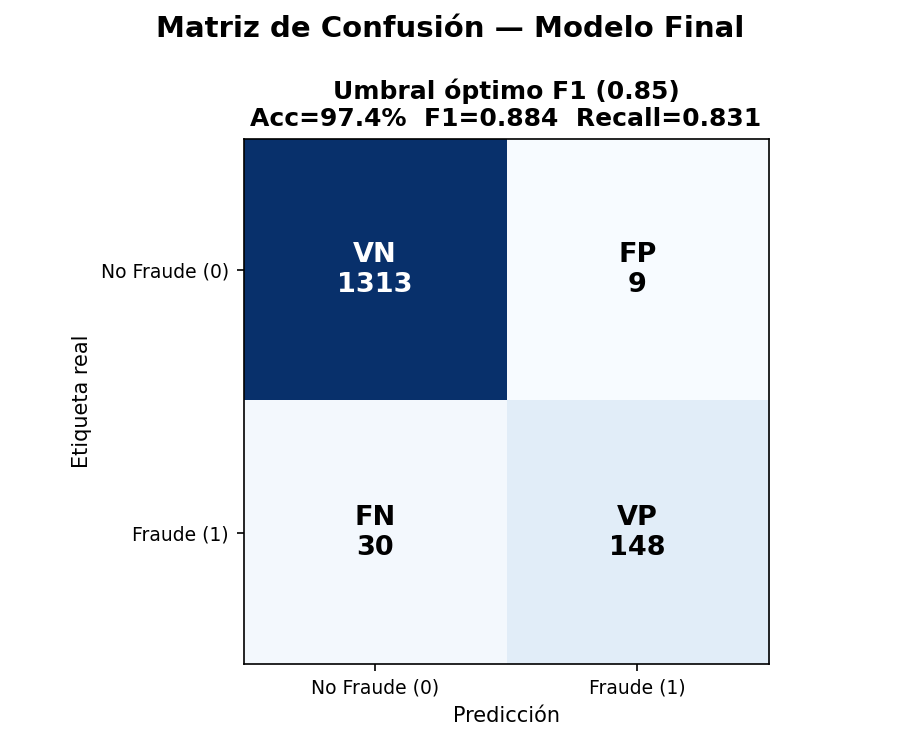
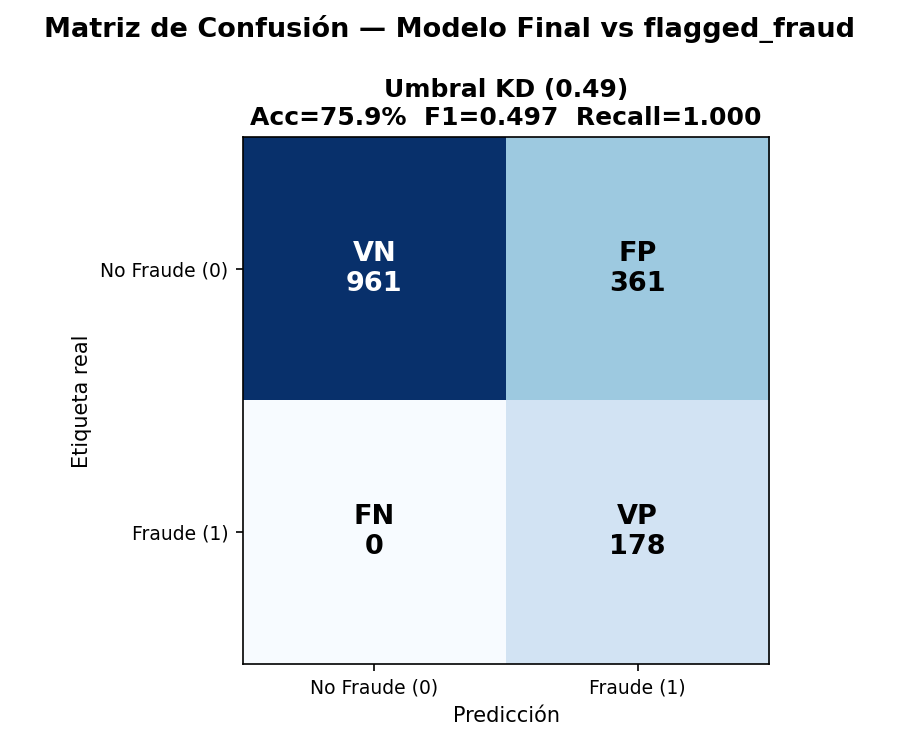
data leakage fix

diff --git a/algorithmEjercicio1/perceptron_fraud.py b/algorithmEjercicio1/perceptron_fraud.py
@@ -17,20 +17,22 @@ X = df.drop(columns=['flagged_fraud','big_model_fraud_probability']).values.asty
 y = df['big_model_fraud_probability'].values.astype(float)
 y_binary = df['flagged_fraud'].values.astype(int)
 
-# Preprocesamiento: Min-Max Scaling
-# Normalizamos los datos de entrada al rango [0, 1] para mejorar la estabilidad
-# y convergencia de los gradientes en el perceptrón.
-X_min = X.min(axis=0)
-X_max = X.max(axis=0)
-X = (X - X_min) / (X_max - X_min + 1e-8)
-
-# Division train/test (80 % / 20 %)
+# --- Division train/test (80 % / 20 %) ---
 np.random.seed(42)
 idx_perm = np.random.permutation(len(X))
 split = int(0.8 * len(X))
 idx_train, idx_test = idx_perm[:split], idx_perm[split:]
-X_train, y_train = X[idx_train], y[idx_train]
-X_test,  y_test  = X[idx_test],  y[idx_test]
+
+X_train_raw, X_test_raw = X[idx_train], X[idx_test]
+y_train, y_test = y[idx_train], y[idx_test]
+
+# Preprocesamiento: Min-Max Scaling (evitando data leakage)
+# Normalizamos los datos de entrada al rango [0, 1] usando los parámetros de TRAIN
+X_min = X_train_raw.min(axis=0)
+X_max = X_train_raw.max(axis=0)
+
+X_train = (X_train_raw - X_min) / (X_max - X_min + 1e-8)
+X_test  = (X_test_raw  - X_min) / (X_max - X_min + 1e-8)
 
 EPOCHS = 30
 print(f"Conjunto de datos: {len(X)} muestras, {X.shape[1]} variables de entrada")
@@ -130,8 +132,14 @@ for k in range(K):
     idx_val   = folds[k]
     idx_cv_tr = np.concatenate([folds[j] for j in range(K) if j != k])
 
-    X_cv_train, y_cv_train = X[idx_cv_tr], y[idx_cv_tr]
-    X_cv_val,   y_cv_val   = X[idx_val],   y[idx_val]
+    X_cv_train_raw, y_cv_train = X[idx_cv_tr], y[idx_cv_tr]
+    X_cv_val_raw,   y_cv_val   = X[idx_val],   y[idx_val]
+
+    # Normalización local por fold para evitar data leakage
+    cv_min = X_cv_train_raw.min(axis=0)
+    cv_max = X_cv_train_raw.max(axis=0)
+    X_cv_train = (X_cv_train_raw - cv_min) / (cv_max - cv_min + 1e-8)
+    X_cv_val   = (X_cv_val_raw   - cv_min) / (cv_max - cv_min + 1e-8)
 
     m_lin  = PerceptronLineal(X_cv_train.shape[1],  alpha=0.1)
     m_nlin = PerceptronNoLineal(X_cv_train.shape[1], alpha=0.1)

diff --git a/algorithmEjercicio1/generalizacion_fraud.py b/algorithmEjercicio1/generalizacion_fraud.py
@@ -37,7 +37,7 @@ X = df.drop(columns=['flagged_fraud', 'big_model_fraud_probability']).values.ast
 y = df['big_model_fraud_probability'].values.astype(float)
 y_binary = df['flagged_fraud'].values.astype(int)
 
-X = (X - X.min(axis=0)) / (X.max(axis=0) - X.min(axis=0) + 1e-8)
+# (X se normalizará dentro de cada fold/split para evitar data leakage)
 
 # Calidad del BigModel (K-Fold completo)
 r2_big = plots.r2_score(y_binary, y)
@@ -75,9 +75,15 @@ for k in range(K):
     idx_test  = folds[k]
     idx_train = np.concatenate([folds[i] for i in range(K) if i != k])
 
-    X_train, y_train = X[idx_train], y[idx_train]
-    X_test,  y_test  = X[idx_test],  y[idx_test]
-    y_test_binary    = y_binary[idx_test]
+    X_train_raw, y_train = X[idx_train], y[idx_train]
+    X_test_raw,  y_test  = X[idx_test],  y[idx_test]
+    y_test_binary        = y_binary[idx_test]
+
+    # Normalización local por fold (evitando data leakage)
+    cv_min = X_train_raw.min(axis=0)
+    cv_max = X_train_raw.max(axis=0)
+    X_train = (X_train_raw - cv_min) / (cv_max - cv_min + 1e-8)
+    X_test  = (X_test_raw  - cv_min) / (cv_max - cv_min + 1e-8)
 
     modelo = PerceptronNoLineal(X_train.shape[1], alpha=0.1)
     modelo.fit(X_train, y_train, epochs=EPOCHS)
@@ -110,9 +116,15 @@ print(f"{'Std':<6} {resultados[:,0].std():<10.4f} "
 # MEJOR MODELO 
 # Entrenamos el modelo final sobre el 80% y evaluamos el umbral en el 20%
 split    = int(0.8 * len(X))
-X_train, X_test = X[:split], X[split:]
+X_train_raw, X_test_raw = X[:split], X[split:]
 y_train, y_test = y[:split], y[split:] # Target continuo para train
 y_test_real = y_binary[split:]         # Ground truth para evaluacion
+
+# Normalización final para evaluación (evitando data leakage)
+f_min = X_train_raw.min(axis=0)
+f_max = X_train_raw.max(axis=0)
+X_train = (X_train_raw - f_min) / (f_max - f_min + 1e-8)
+X_test  = (X_test_raw  - f_min) / (f_max - f_min + 1e-8)
 
 modelo_final = PerceptronNoLineal(X_train.shape[1], alpha=0.1)
 modelo_final.fit(X_train, y_train, epochs=EPOCHS)
